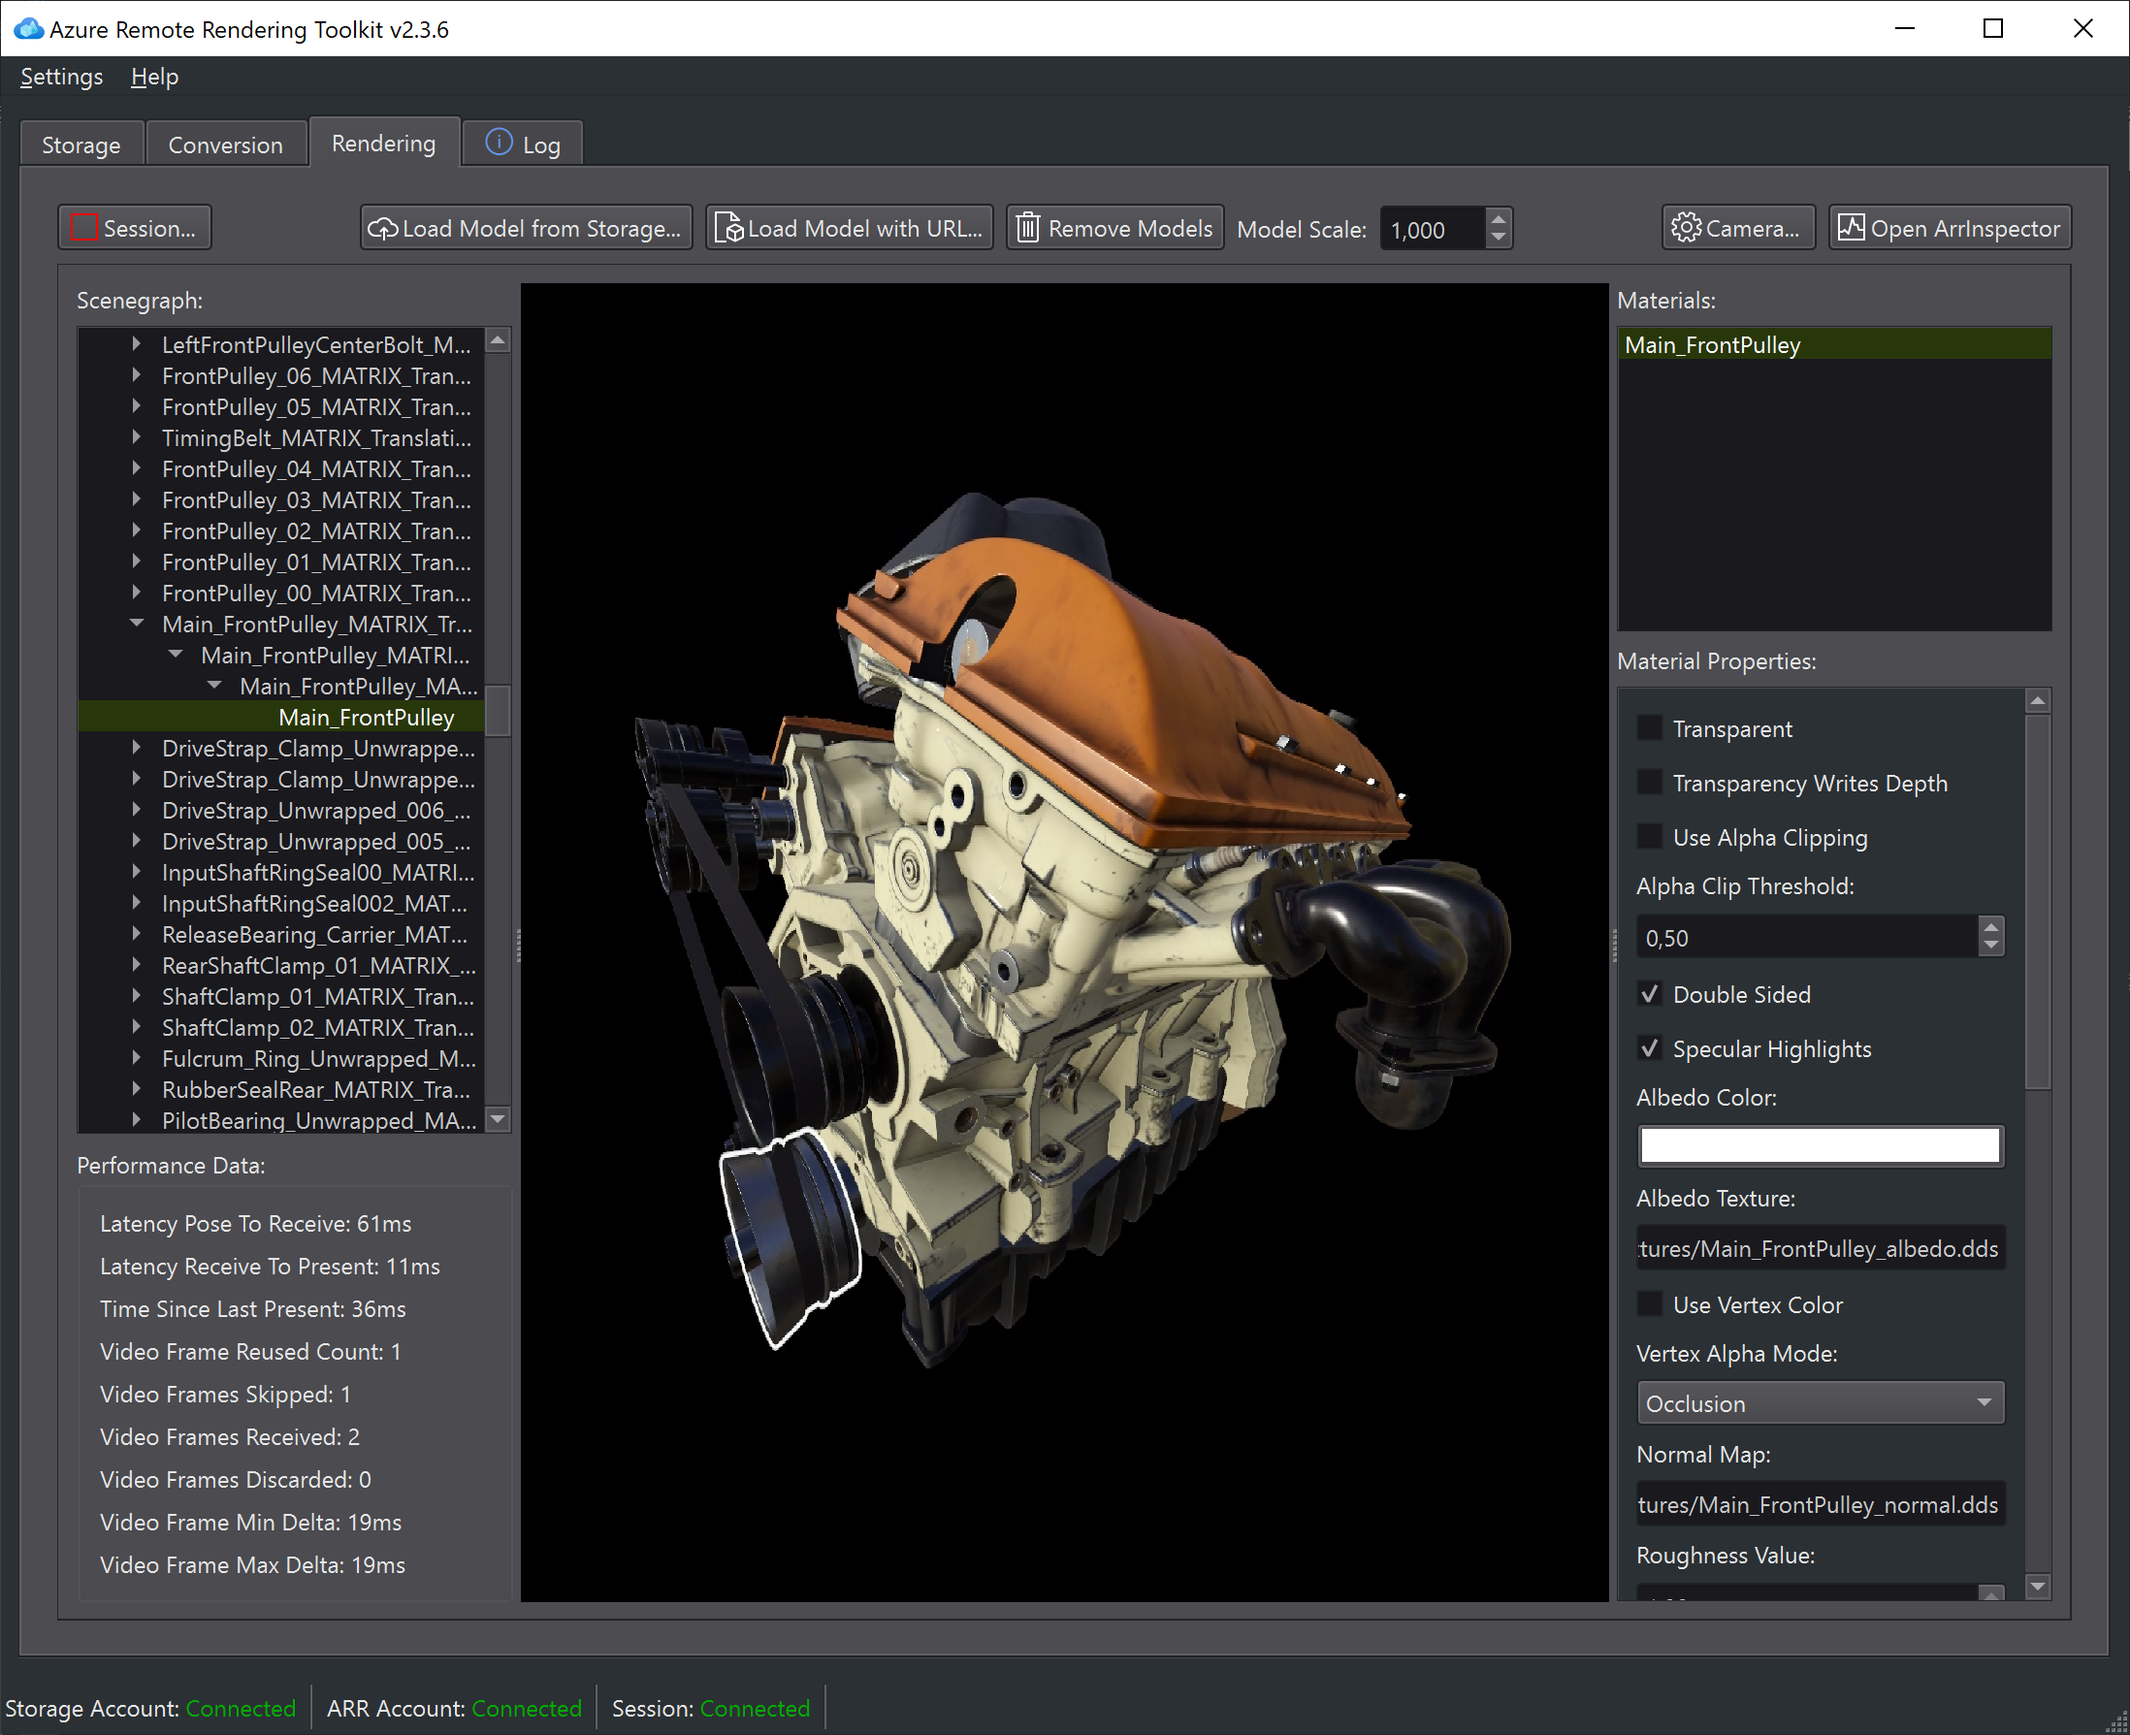
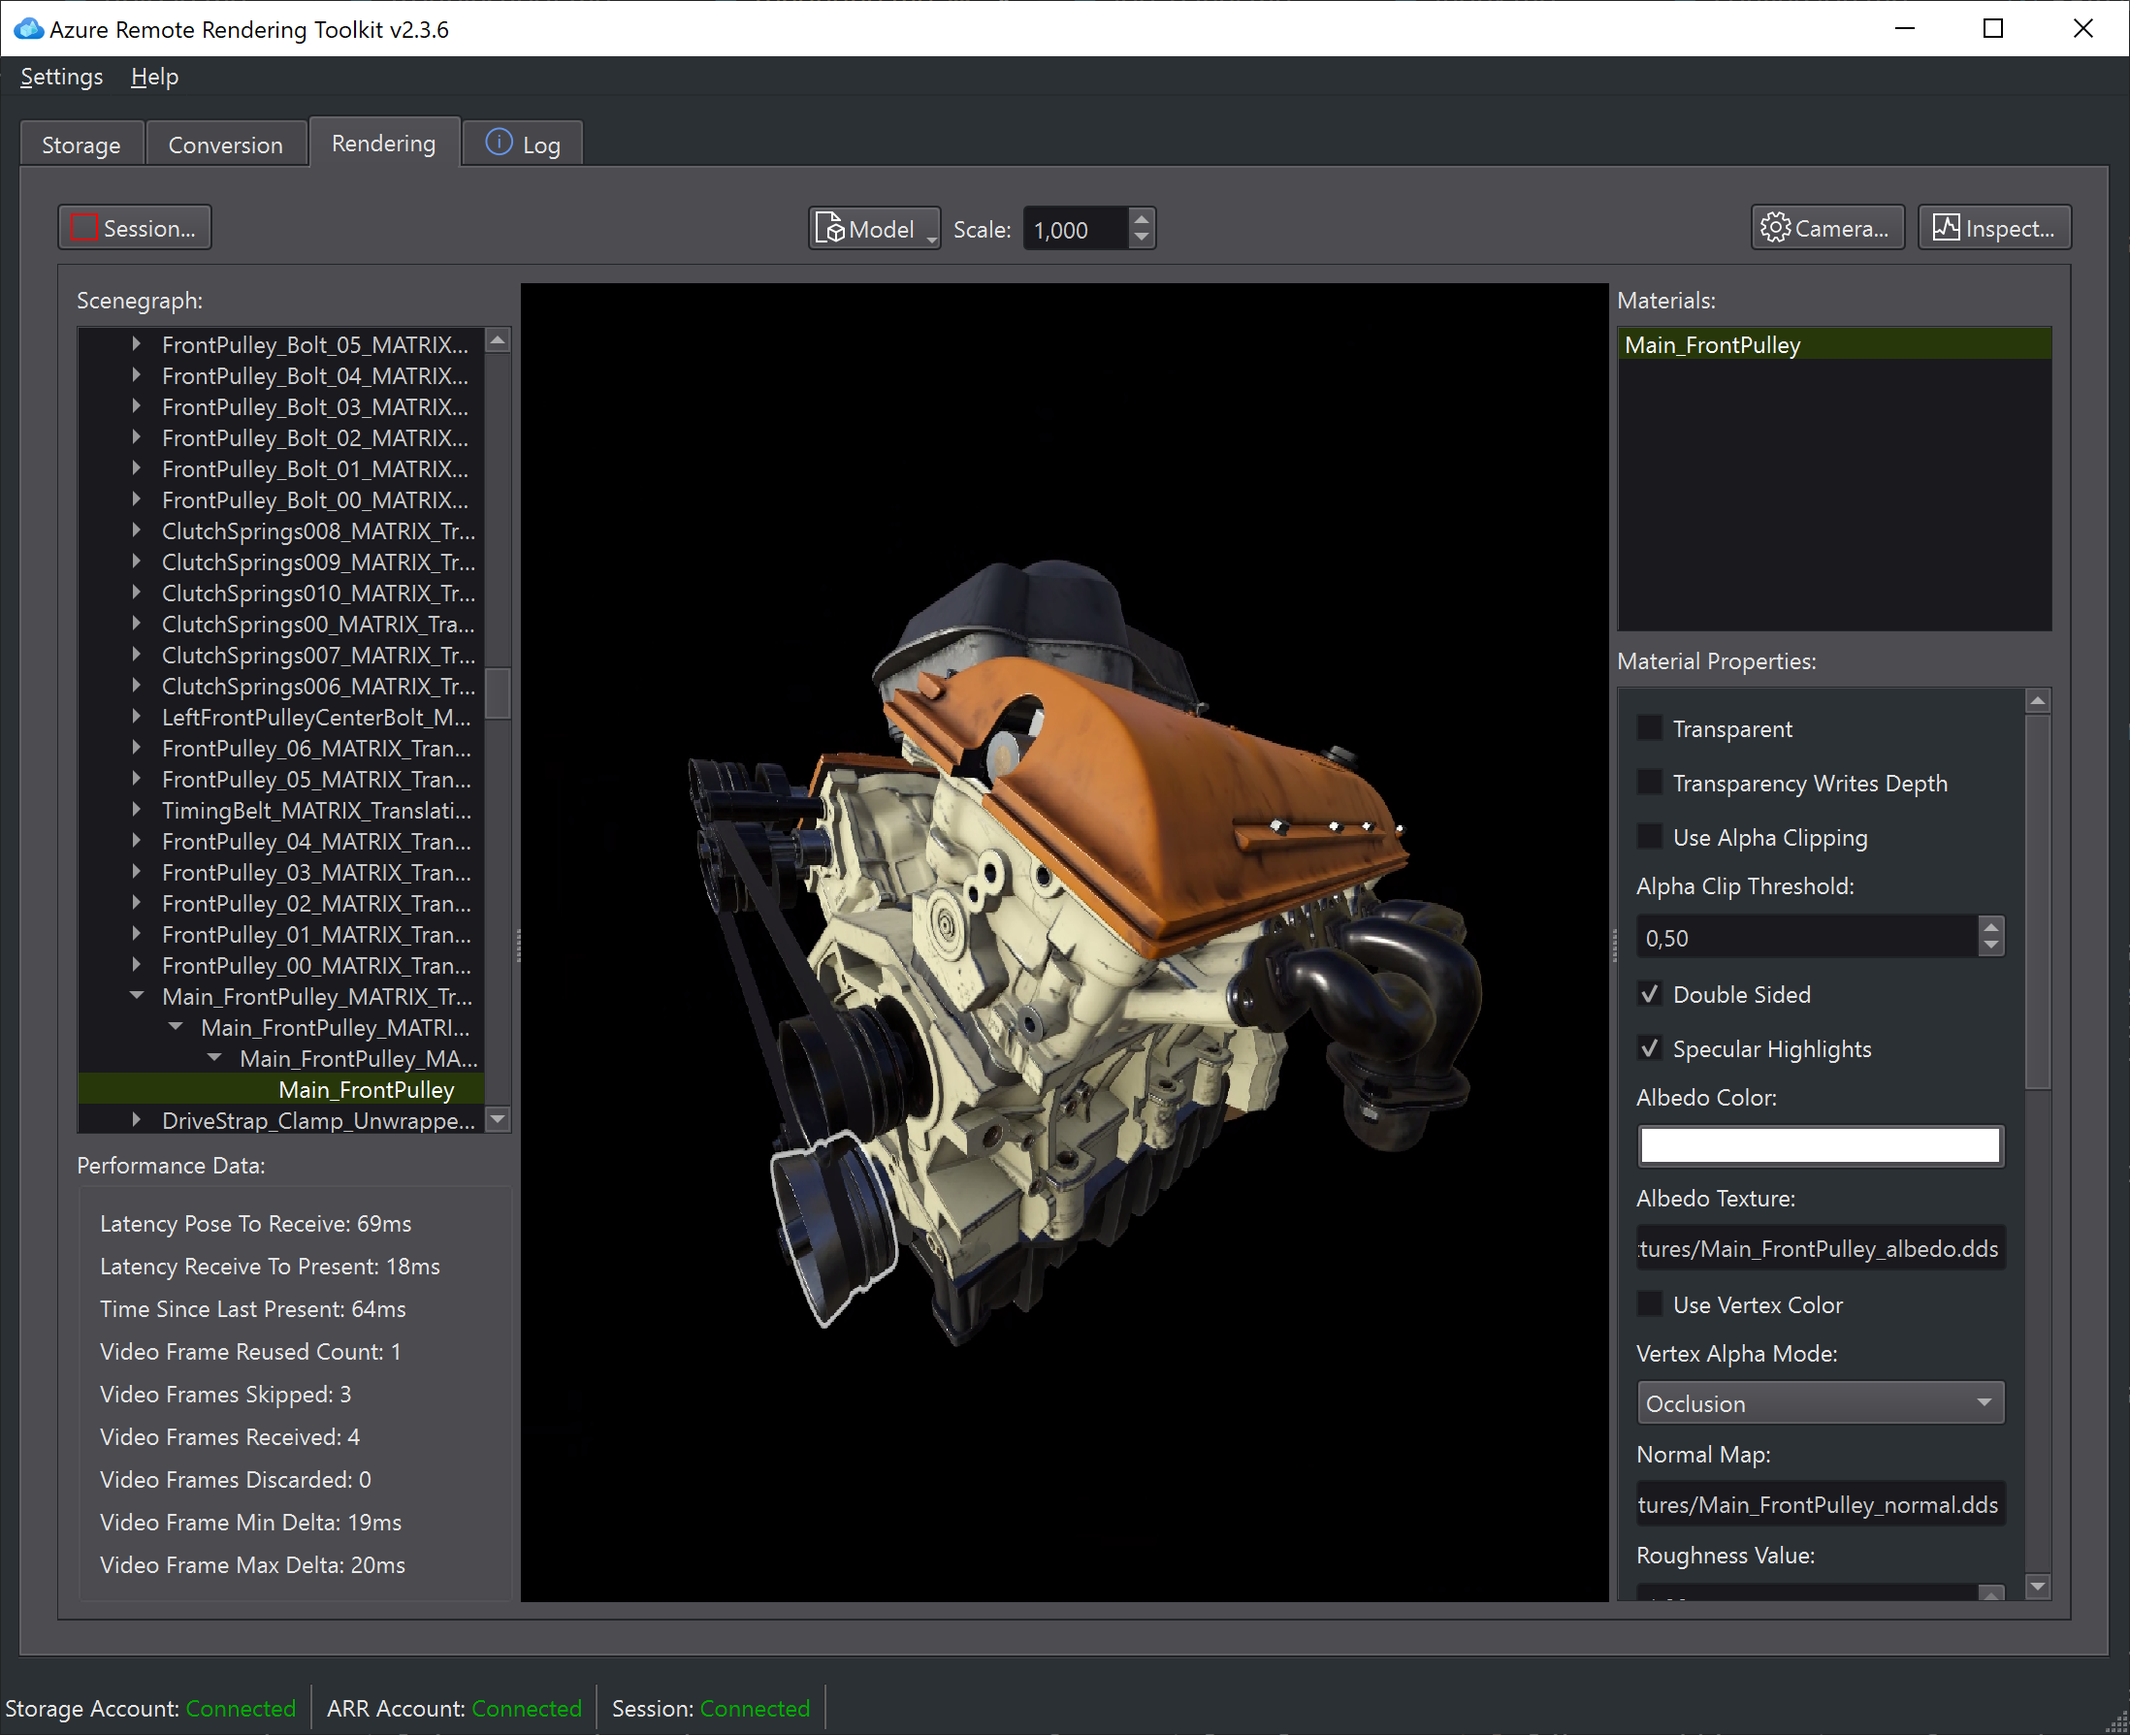
Moved model actions into dropdown menu for better usability at lower resolutions (#132)
* Moved model actions into a dropdown menu
* Updated documentation

diff --git a/ArrtSource/App/AppWindow.cpp b/ArrtSource/App/AppWindow.cpp
@@ -81,6 +81,21 @@ ArrtAppWindow::ArrtAppWindow()
         }
     }
 
+    // set up toolbutton menu for model actions
+    {
+        m_clearModelsAction = new QAction(QIcon(":/ArrtApplication/Icons/remove.svg"), "Remove all models");
+        m_loadFromStorageAction = new QAction(QIcon(":/ArrtApplication/Icons/upload.svg"), "Load from storage...");
+        m_loadWithUrlAction = new QAction(QIcon(":/ArrtApplication/Icons/model.svg"), "Load with URL...");
+
+        RenderingTab->ModelsToolbutton->addAction(m_loadFromStorageAction);
+        RenderingTab->ModelsToolbutton->addAction(m_loadWithUrlAction);
+        RenderingTab->ModelsToolbutton->addAction(m_clearModelsAction);
+
+        connect(m_loadFromStorageAction, &QAction::triggered, this, &ArrtAppWindow::on_ChangeModelButton_clicked);
+        connect(m_loadWithUrlAction, &QAction::triggered, this, &ArrtAppWindow::on_LoadModelSasButton_clicked);
+        connect(m_clearModelsAction, &QAction::triggered, this, &ArrtAppWindow::on_ClearModelsButton_clicked);
+    }
+
     // setup the status bar
     {
         m_statusBar = new QStatusBar(this);
@@ -143,7 +158,7 @@ ArrtAppWindow::ArrtAppWindow()
             {
             RenderingTab->ScenegraphView->selectionModel()->clearSelection();
                 m_scenegraphModel->RefreshModel();
-                RenderingTab->ClearModelsButton->setEnabled(m_arrSession->GetSessionStatus().m_state == ArrSessionStatus::State::ReadyConnected && m_arrSession->GetLoadedModels().size() > 0);
+                m_clearModelsAction->setEnabled(m_arrSession->GetSessionStatus().m_state == ArrSessionStatus::State::ReadyConnected && m_arrSession->GetLoadedModels().size() > 0);
 
                 if (m_arrSession->GetLoadedModels().size() == 1)
                 {
@@ -345,11 +360,12 @@ void ArrtAppWindow::OnUpdateStatusBar()
     }
 
     RenderingTab->EditSessionButton->setEnabled(m_arrAclient->GetConnectionStatus() == ArrConnectionStatus::Authenticated);
-    RenderingTab->ChangeModelButton->setEnabled(m_arrSession->GetSessionStatus().m_state == ArrSessionStatus::State::ReadyConnected && m_storageAccount->GetConnectionStatus() == StorageConnectionStatus::Authenticated);
-    RenderingTab->LoadModelSasButton->setEnabled(m_arrSession->GetSessionStatus().m_state == ArrSessionStatus::State::ReadyConnected);
+    m_loadFromStorageAction->setEnabled(m_arrSession->GetSessionStatus().m_state == ArrSessionStatus::State::ReadyConnected && m_storageAccount->GetConnectionStatus() == StorageConnectionStatus::Authenticated);
+    m_loadWithUrlAction->setEnabled(m_arrSession->GetSessionStatus().m_state == ArrSessionStatus::State::ReadyConnected);
+    RenderingTab->ModelScaleSpinner->setEnabled(m_arrSession->GetSessionStatus().m_state == ArrSessionStatus::State::ReadyConnected);
     RenderingTab->CameraOptionsButton->setEnabled(m_arrSession->GetSessionStatus().m_state == ArrSessionStatus::State::ReadyConnected);
     RenderingTab->InspectorButton->setEnabled(m_arrSession->GetSessionStatus().m_state == ArrSessionStatus::State::ReadyConnected);
-    RenderingTab->ClearModelsButton->setEnabled(m_arrSession->GetSessionStatus().m_state == ArrSessionStatus::State::ReadyConnected && m_arrSession->GetLoadedModels().size() > 0);
+    m_clearModelsAction->setEnabled(m_arrSession->GetSessionStatus().m_state == ArrSessionStatus::State::ReadyConnected && m_arrSession->GetLoadedModels().size() > 0);
     RenderingTab->ScenegraphView->setEnabled(m_arrSession->GetSessionStatus().m_state == ArrSessionStatus::State::ReadyConnected);
     RenderingTab->MaterialsList->setEnabled(m_arrSession->GetSessionStatus().m_state == ArrSessionStatus::State::ReadyConnected);
     RenderingTab->MaterialProperties->setEnabled(m_arrSession->GetSessionStatus().m_state == ArrSessionStatus::State::ReadyConnected);

diff --git a/ArrtSource/App/AppWindow.h b/ArrtSource/App/AppWindow.h
@@ -108,6 +108,9 @@ private:
     int m_numFileUploads = 0;
     float m_fileUploadPercentage = 0;
     int m_maxLogType = 0;
+    QAction* m_loadFromStorageAction = nullptr;
+    QAction* m_clearModelsAction = nullptr;
+    QAction* m_loadWithUrlAction = nullptr;
 
     std::unique_ptr<StorageAccount> m_storageAccount;
     std::unique_ptr<ArrAccount> m_arrAclient;

diff --git a/Documentation/rendering.md b/Documentation/rendering.md
@@ -29,13 +29,13 @@ Once you start a session, it can take some time for it to become fully available
 
 ## Loading a model from a URL
 
-Press the button **Load Model with URL...**. In the following dialog you can enter any [SAS URL](https://docs.microsoft.com/azure/storage/common/storage-sas-overview) to a converted asset in Azure Storage. You can generate such a URL with [Microsoft Azure Storage Explorer](https://azure.microsoft.com/features/storage-explorer).
+From the **Model** dropdown menu, select **Load with URL...**. In the following dialog you can enter any [SAS URL](https://docs.microsoft.com/azure/storage/common/storage-sas-overview) to a converted asset in Azure Storage. You can generate such a URL with [Microsoft Azure Storage Explorer](https://azure.microsoft.com/features/storage-explorer).
 
 However, you can also just keep the special URL **builtin://Engine** to load the standard sample model. This is the easiest way to see anything in ARRT, since you don't need to convert a model yourself to get started.
 
 ## Loading a model from Azure Storage
 
-Press the button **Load Model from Storage...** and select a [converted](conversion.md) `.arrAsset` file from your connected storage account.
+From the **Model** dropdown menu, select **Load from storage...** and select a [converted](conversion.md) `.arrAsset` file from your connected storage account.
 
 ## Model rendering
 
@@ -49,13 +49,13 @@ Press the **Camera...** button to open a dialog where you can configure the fiel
 
 ## Scene tree
 
-The scene tree on the left displays the structure of the loaded models. You can load multiple models simultaneously. Use the **Remove Models** button at the top to clear the entire scene. This is especially necessary, if the loaded models exceed the [limits of the rendering VM](https://docs.microsoft.com/azure/remote-rendering/reference/limits#overall-number-of-polygons). In that case you will only see a **checkerboard pattern**.
+The scene tree on the left displays the structure of the loaded models. You can load multiple models simultaneously. Use the **Remove all models** option from the **Models** dropdown menu to clear the entire scene. This is especially necessary, if the loaded models exceed the [limits of the rendering VM](https://docs.microsoft.com/azure/remote-rendering/reference/limits#overall-number-of-polygons). In that case you will only see a **checkerboard pattern**.
 
 Select an item either through the tree or by clicking on it in the viewport. If you **double click** an item in the scene tree, the camera will focus on it. The same can be achieved by pressing the **F key** while the viewport has input focus.
 
 ## Model scale
 
-Some models are very large, others are very small and yet others are very far away from the origin. ARRT attempts to detect extreme cases and notify you about it. In any case, you can always use the **Model Scale** option from the toolbar to adjust the size of the loaded models. Also change the camera movement speed as necessary and make sure the near and far plane are configured accordingly.
+Some models are very large, others are very small and yet others are very far away from the origin. ARRT attempts to detect extreme cases and notify you about it. In any case, you can always use the **Scale** option from the toolbar to adjust the size of the loaded models. Also change the camera movement speed as necessary and make sure the near and far plane are configured accordingly.
 
 ## Material editing
 
@@ -67,7 +67,7 @@ When an object is selected, the list on the right hand side shows all the availa
 
 ## ArrInspector
 
-You can launch [ArrInspector](https://docs.microsoft.com/azure/remote-rendering/resources/tools/arr-inspector) for your session with the button in the toolbar. ArrInspector is a great tool to live inspect performance stats and capture traces for debugging.
+You can launch [ArrInspector](https://docs.microsoft.com/azure/remote-rendering/resources/tools/arr-inspector) for your session with the **Inspect...** button in the toolbar. ArrInspector is a great tool to live inspect performance stats and capture traces for debugging.
 
 ## Performance statistics
 
